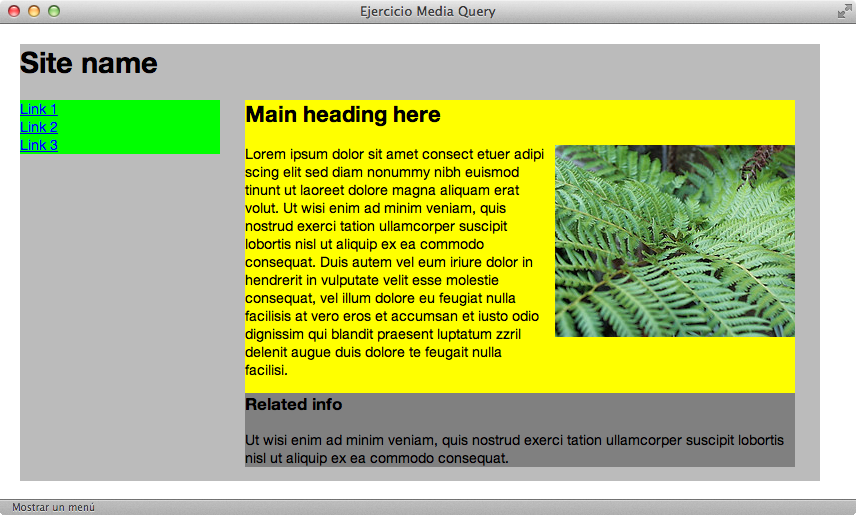
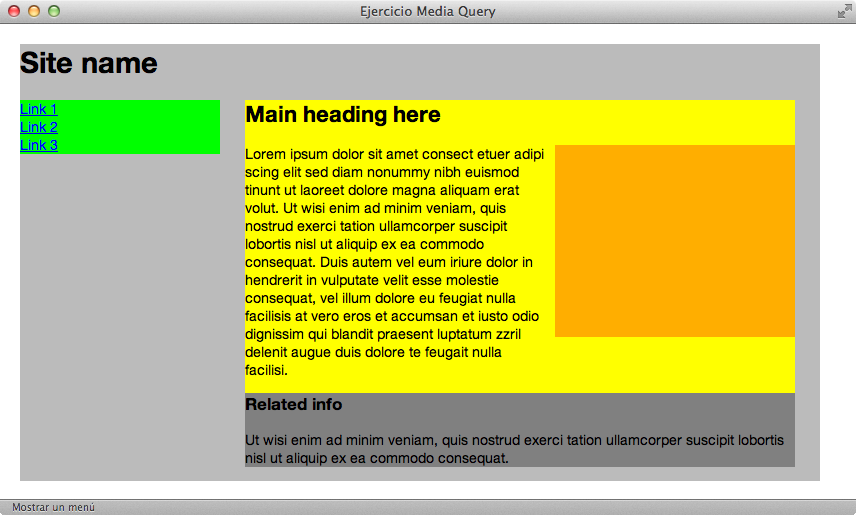
Improve Session 1.6 (#23)

Changed region(s): [[0.6379, 0.2796, 0.9416, 0.6524]]

diff --git a/sprint_1/1_6_responsive_design.md b/sprint_1/1_6_responsive_design.md
@@ -1,20 +1,19 @@
 # Responsive design
 
 ## Índice de ejercicios
-<!-- TOC START min:5 max:7 link:true update:true -->
-  - [EJERCICIO 1:](#ejercicio-1)
-  - [EJERCICIO 2:](#ejercicio-2)
-  - [EJERCICIO 3:](#ejercicio-3)
-  - [EJERCICIO 4:](#ejercicio-4)
-  - [EJERCICIO 5:](#ejercicio-5)
-  - [EJERCICIO 6:](#ejercicio-6)
-  - [EJERCICIO 7:](#ejercicio-7)
-  - [EJERCICIO BONUS 1:](#ejercicio-bonus-1)
-  - [EJERCICIO 8:](#ejercicio-8)
-  - [EJERCICIO 9:](#ejercicio-9)
-  - [EJERCICIO 10:](#ejercicio-10)
+<!-- TOC depthFrom:4 depthTo:6 updateOnSave:true withLinks:true -->
 
-<!-- TOC END -->
+- [EJERCICIO 1](#ejercicio-1)
+- [EJERCICIO 2](#ejercicio-2)
+- [EJERCICIO 3](#ejercicio-3)
+- [EJERCICIO 4](#ejercicio-4)
+- [EJERCICIO 5](#ejercicio-5)
+- [EJERCICIO 6](#ejercicio-6)
+- [EJERCICIO BONUS 1](#ejercicio-bonus-1)
+- [EJERCICIO 7](#ejercicio-7)
+- [EJERCICIO 8](#ejercicio-8)
+
+<!-- /TOC -->
 
 ## Introducción
 
@@ -34,17 +33,17 @@ Con el paso del tiempo, hemos visto que el problema ya no se resuelve teniendo a
 ## ¿Qué es responsive?
 El responsive, o Responsive Web Design (RWD) es un concepto de desarrollo orientado a que los sitios web se vean y comporten correctamente en todos los dispositivos y pantallas.
 
-	NOTA:
-	Responsive no es solo móvil, tablet y escritorio, también es un navegador que ocupe la mitad de la pantalla por alguna razón (por ejemplo: estamos escribiendo un artículo en nuestro editor de textos y tenemos al lado una web donde consultamos información).
+> **NOTA**:
+Responsive no es solo móvil, tablet y escritorio, también es un navegador que ocupe la mitad de la pantalla por alguna razón. Por ejemplo, estamos escribiendo un artículo en nuestro editor de textos y tenemos al lado una web donde consultamos información.
 
 Esto se consigue combinando varios enfoques:
 - Maquetaremos ciertas zonas usando porcentajes
 - Ciertos elementos se ajustarán al tamaño del contenedor hasta un cierto valor, es decir, se comportan como si tuviesen las medidas por porcentajes pero pudiendo marcar tamaños máximos y mínimos
-- Usaremos unidades "flexibles" en ciertos casos, como `em` o `vw` y `vh`. Y claro, el `%`
+- Usaremos unidades "flexibles" en ciertos casos, como `rem` o `vw` y `vh`. Y claro, el `%`
 - Tenemos a nuestra disposición unas expresiones CSS, las mediaqueries, que nos permiten aplicar una serie de reglas cuando en nuestro navegador se cumplen unas condiciones: ancho, alto, resolución, orientación...
 - Veremos qué es el viewport y cómo usarlo
 
-[Curso de Responsive Design](https://www.youtube.com/playlist?list=PLQCgNGUqLK4mW7LxW3jJdRjCnErL5rszl)
+[Curso en video de Responsive Design](https://www.youtube.com/playlist?list=PLQCgNGUqLK4mW7LxW3jJdRjCnErL5rszl)
 
 ## Imágenes, media y tipografía flexibles
 ### Imágenes
@@ -55,11 +54,13 @@ En este entorno Responsive las imágenes y videos tienen su forma de afrontarse 
 * max-height
 * min-height
 
-De esta manera no solo podemos definirle un ancho/alto en porcentages sino marcar unos límites.
+De esta manera no solo podemos definir un ancho/alto en porcentajes sino marcar unos límites.
 
-Por ejemplo: Quiero que mi imagen se ajuste al 100% del contenedor pero solo hasta un máximo de 900px, controlando de esa manera que se haga demasiado grande.
+Por ejemplo: Quiero que mi imagen se ajuste al 100% del contenedor pero solo hasta un máximo de 600px, controlando de esa manera que se haga demasiado grande.
 
-[Ejemplo de imagen "responsive" en Codepen](https://codepen.io/oneeyedman/pen/XzKdBe)
+En maquetación responsive es súper buena idea meter las imágenes de contenido en un contenedor, dar a la imagen un ancho del 100% y usar el contenedor para definir el tamaño que debe tener la imagen. Esto se hace para poder controlar diferentes imágenes cuando no podemos asegurar los tamaños que van a tener sin que nos interfiera con la estructura.
+
+[&rtrif; Ejemplo de imagen "responsive" en Codepen](https://codepen.io/adalab/pen/XxVGQB)
 
 ### Vídeos
 Los vídeos son más complicados de controlar porque la etiqueta `<video>`, al contrario que la `<img>` no redimensiona proporcionalmente el video, aunque hay formas de suplirlo ya sea por CSS o tirando de unas librerías en JS.
@@ -67,55 +68,90 @@ Los vídeos son más complicados de controlar porque la etiqueta `<video>`, al c
 ### Tipografía
 Para el tema de la tipografía hay varias escuelas y formas de afrontarlo según el caso:
 
-* Una es usar unidades fijas como los pixels, e indicarle en cada caso qué tamaño de fuente debe tener cada texto. Por ejemplo: en móvil mi texto básico será de 18px porque la pantalla es más pequeña y quiero que se lea mejor, pero en tablet lo bajo a 16px y en escritorio lo vuelvo a poner a 18px. Aunque en pantallas muy grandes usaré 20px o 24px.
-* Tenemos unas unidades relativas como los `em`
+* Una es usar unidades fijas como los píxels, e indicarle en cada caso qué tamaño de fuente debe tener cada texto. Por ejemplo: en móvil mi texto básico será de 18px porque la pantalla es más pequeña y quiero que se lea mejor, pero en tablet lo bajo a 16px y en escritorio lo vuelvo a poner a 18px. Aunque en pantallas muy grandes usaré 20px o 24px.
+* Tenemos unas unidades relativas como los `rem`
 
-`em`: 1em es el tamaño de fuente del elemento actual (es el ancho de la letra M mayúscula). El tamaño de fuente por defecto que los navegadores usan antes de aplicar CSS es de 16 píxeles, lo que significa que este es el valor asignado por defecto a un elemento (1em). Ojo — los tamaños de fuente de los elementos se heredan de los padres, por lo que si a los padres se les aplica otros tamaños de fuente, la equivalencia en píxel de un em puede complicarse.
+`rem`: es una unidad relativa al tamaño de texto especificado en el elemento raíz de nuestro documento que es el `<html>`. De manera que si el elemento `html` está a 16px (valor por defecto) 1rem equivaldrá a esos 16px.
 
-![Cómo funcionan los em](assets/images/1-6/em.png)
+Esto nos ayuda a poder ajustar todas nuestras medidas de forma proporcional solo cambiando el tamaño de fuente de la etiqueta `<html>`.
+
+[&rtrif; Veamos un ejemplo en Codepen](https://codepen.io/adalab/pen/WadWay) (Prueba a cambiar el tamaño de fuente de la etiqueta html).
+
+**¡En el nombre de la diosa frontender! ¿Cómo vamos a calcular los rems que corresponden a nuestros píxels?**
+
+Pues con una [calculadora de rem](https://offroadcode.com/rem-calculator/) (por ahora).
+
 * * *
-###### EJERCICIO 1:
+###### EJERCICIO 1
 
-En la web de [Calculadora de em](https://vasilis.nl/nerd/code/emcalc/) crear una estructura como:
+**No puedo vivir sin rems**
+
+Partiendo de estos documentos:
+
+**index.html**
+
 ```html
+<!DOCTYPE html>
+<html lang="en">
+<head>
+  <meta charset="UTF-8">
+  <meta name="viewport" content="width=device-width, initial-scale=1.0">
+  <link rel="stylesheet" href="styles/main.css">
+  <title>:)</title>
+</head>
 <body>
-	<main>
-		<section>
-			<p></p>
-		</section>
-	</main>
+  <div class="smiley">:)</div>
 </body>
+</html>
 ```
-donde el `<body>` estará a 16px, el `<main>` a los mismos 16px, el `<section>` a 20px y el `<p>` a 20px.
-* ¿A cuántos px equivale 1em en el `<body>`?
-* ¿A cuántos em está el `<section>`?
-* ¿A cuántos em está el `<p>`?
+
+y
+
+**main.css**
+
+```CSS
+html {
+  font-size: 16px;
+}
+.smiley {
+  width: 100px;
+  height: 100px;
+  line-height: 100px;
+  text-align: center;
+  font-family: 'courier new';
+  font-weight: bold;
+  font-size: 50px;
+  color: #424242;
+  background: #ffcc00;
+  position: fixed;
+  left: 50%;
+  top: 50%;
+  transform: translate(-50%, -50%);
+  border-radius: 50%;
+}
+
+```
+
+1. Pasar las medidas en píxels a rem
+2. ¿Qué tamaño de fuente tengo que poner para que mi careto mida 50x50?
+3. ¿Y para que mida 200x200?
+
 * * *
-###### EJERCICIO 2:
 
-Vamos a ver cómo funcionan en un ejemplo unas unidades flexibles como los `em` y qué pueden hacer por nosotros:
-En el siguiente [codepen](https://codepen.io/adalab/pen/vWXwZd) hay un contenedor con clase `.icon`. Y él y todas sus hijas están en `em`.
-Probar a diferentes valores de pixels para el font-size del elemento `.icon`:
 
-* 10px
-* 16px
-* 50px
-* 100px
-* * *
-
-## Max-width, min-width, max-height, min-height. Width: 100%.
+## Max-width, min-width, max-height, min-height.
 Estas propiedades que permiten "limitar" anchos y altos se pueden aplicar a casi cualquier contenedor (que admita dimensiones, como aquellos con display block o inline-block) de manera que podamos tener elementos que se dimensionen a base de porcentajes pero sobre los que tengamos un poco de control para que en determinados escenarios no se hagan demasiado pequeños ni demasiado grandes.
 
 * * *
-###### EJERCICIO 3:
+###### EJERCICIO 2
 
-Ya que ayer vimos flexbox, en este [codepen](https://codepen.io/adalab/pen/LORKzX) tenemos dos columnas, una (.aside) que ocupa el 50% del ancho hasta 320px y la otra (.main) que ocupa el resto:
+Ya vimos en la sesión de flexbox, en este [codepen](https://codepen.io/adalab/pen/LORKzX) tenemos dos columnas, una (`aside`) que ocupa el 50% del ancho hasta 320px y la otra (`.main`) que ocupa el resto:
 
-* Tirando con el ratón, redimensionar la ventana del navegador haciendola tan pequeña como para que las dos columnas ocupen lo mismo
-* y agrandar hasta que .aside se quede en 320px de ancho mientras .main ocupa el resto del espacio
+* Tirando con el ratón, redimensionar la ventana del navegador haciéndola tan pequeña como para que las dos columnas ocupen lo mismo
+* y agrandar hasta que `.aside` se quede en 320px de ancho mientras `.main` ocupa el resto del espacio
 
 * * *
-###### EJERCICIO 4:
+###### EJERCICIO 3
 
 En el siguiente [codepen](https://codepen.io/adalab/pen/MOjMPr) hay un módulo con una noticia sobre Bill Murray. Nada nuevo, ¿no?
 
@@ -123,18 +159,19 @@ En el siguiente [codepen](https://codepen.io/adalab/pen/MOjMPr) hay un módulo c
 * ¿Y si duplico otra vez?
 * * *
 
-## Mediaqueries. Viewport: &lt;meta name="viewport"&gt;.
+## Mediaqueries
 Las mediaqueries son las instrucciones que nos permiten aplicar una serie de reglas CSS cuando se cumplan una o varias condiciones. Tienen este aspecto:
 ```css
 @media all and (min-width:500px) {
 	/* Reglas CSS que aplicaremos */
 }
 ```
-En el ejemplo superior le decimos que aplique unos CSS cuando estemos en una ventana de navegador de al menos 500px
-* * *
-###### EJERCICIO 5:
+En el ejemplo superior le decimos que aplique unos CSS cuando estemos en una ventana de navegador de al menos 500px.
 
-Crea un index.html que contenga:
+* * *
+###### EJERCICIO 4
+
+Crea un `index.html` que contenga:
 ```html
 <!DOCTYPE html>
 <html lang="en">
@@ -156,7 +193,7 @@ Crea un index.html que contenga:
 ```
 Veremos que el div `.box` ocupará el ancho disponible y tendrá 100px de alto, y fondo rojo.
 
-2) Vamos a añadir nuestra primera mediaquery: vamos a hacer que por encima de 550px el elemento `.box` tenga fondo azul. Para ello el CSS dentro de nuestra etiqueta `<style>` quedará así:
+2) Añadamos nuestra primera mediaquery: vamos a hacer que por encima de 550px el elemento `.box` tenga fondo azul. Para ello el CSS dentro de nuestra etiqueta `<style>` quedará así:
 ```css
 .box {
 	background: red;
@@ -170,13 +207,15 @@ Veremos que el div `.box` ocupará el ancho disponible y tendrá 100px de alto, 
 ```
 Si ahora redimensionamos la ventana del navegador veremos que a partir de 550px de ancho nuestro elemento `.box` se vuelve azul.
 
-	NOTA:
-	A cada una de estas medidas que ponemos en los mediaqueries las llamamos breakpoints, o puntos de ruptura.
+>**NOTA**:
+A cada una de estas medidas que ponemos en los mediaqueries las llamamos breakpoints, o puntos de ruptura.
 
 3) Abramos ahora las herramientas de desarrollo de Chrome y lancemos el simulador de dispositivos móviles. Probemos varios dispositivos o resoluciones. ¿Qué pasa? ¿Cuándo se vuelve azul? ¿Cuándo se vuelve rojo?
-Si no lo tenemos claro el siguiente ejercicio nos va a ayudar a entenderlo mejor.
+
+Si no lo tenemos claro los siguientes ejercicios nos va a ayudar a entenderlo mejor.
 * * *
 
+## Viewport
 Aquí es donde entra en juego una etiqueta que la conocíamos por otros motivos pero que ahora tiene un contenido especial: el viewport.
 ```html
 <meta name="viewport" content="width=device-width, initial-scale=1">
@@ -188,7 +227,7 @@ Con la etiqueta `meta` viewport le decimos a estos dispositivos cómo tienen que
 2) la escala inicial siempre será el 100%
 
 * * *
-###### EJERCICIO 6:
+###### EJERCICIO 5
 
 Vamos a añadir al `<head>` de nuestra página el tag meta viewport quedando toda nuestra página así:
 ```html
@@ -217,9 +256,9 @@ Vamos a añadir al `<head>` de nuestra página el tag meta viewport quedando tod
 ```
 ¿Qué tal ahora? ¿Si nos vamos a las herramientas de desarrollo, abrimos el simulador y probamos con diferentes dispositivos/anchos? ¿Cambia ahora de rojo a azul?
 * * *
-###### EJERCICIO 7:
+###### EJERCICIO 6
 
-Vamos a hacer algo más "real". En un html tendremos un contenedor con:
+Vamos a hacer algo más "real". En un HTML tendremos un contenedor con:
 1. Un título
 2. Uno o dos párrafos de texto
 
@@ -249,15 +288,14 @@ Hay varias formas de afrontar la maquetación de un proyecto responsive, la que 
 
 La maquetación mobile first da prioridad a los dispositivos con menos capacidad de pantalla, conexión y batería de manera que, por ejemplo, se cargan imágenes más pequeñas que consumen muchos menos datos o se muestra una maquetación más simple y adaptada a que usemos los dedos como punteros (botones y zonas clicables más grandes). Y si luego resulta que estamos viendo la página en un una pantalla más grande, gracias a las mediaqueries, podemos cargar elementos más pesados, mostrar otros que en móvil pueden no tener sentido y adaptarlo todo a que ya se va a manejar con ratón y/o teclado.
 
-Un ejemplo sería la típica página que tiene una primera sección con una imagen de fondo enorme: con la maquetación mobile first colocaríamos primero un fondo adaptado a una pantalla más pequeña con el consiguiente ahorro en nuestra tarifa de datos. Si alguien la carga desde escritorio, donde suele tener una conexión con tarifa plana, pasaríamos a mostrar una imagen de fondo mucho más grande, acorde a la pantalla que esté usando. Pero nunca obligamos a quien va en el metro a descargarse una imagen descomunal de chopocientos megapixels en su móvil con una tarifa de datos que se paga con sangre.
+Un ejemplo sería la típica página que tiene una primera sección con una imagen de fondo enorme: con la maquetación mobile first colocaríamos primero un fondo adaptado a una pantalla más pequeña con el consiguiente ahorro en nuestra tarifa de datos. Si alguien la carga desde escritorio, donde suele tener una conexión con tarifa plana, pasaríamos a mostrar una imagen de fondo mucho más grande, acorde a la pantalla que esté usando. Pero nunca obligamos a quien va en el metro a descargarse una imagen descomunal de chopocientos megapíxels en su móvil con una tarifa de datos que se paga con sangre.
 
 En el CSS esto se representa escribiendo primero los CSS que se verán en las pantallas/ventanas de navegador más pequeñas. Posteriormente añadiremos, dentro de mediaqueries, los ajustes necesarios para los tamaños mayores de pantalla o ventana.
 
-	NOTA:
-	Recordemos que responsive no es solo tema de dispositivos. Claro que hay móviles de 320, tablets de 768 y pantallas desde 1336 a 2560 de ancho. Pero responsive también es un tipo en una pantalla más modesta, por ejemplo cuando una usuaria pone el navegador en la mitad de la pantalla mientras trabaja y en la otra mitad pone un reproductor de vídeo porque está enganchada a Juego de Tronos...
+>**NOTA**:
+Recordemos que responsive no es solo tema de dispositivos. Claro que hay móviles de 320, tablets de 768 y pantallas desde 1336 a 2560 de ancho. Pero responsive también es un tipo en una pantalla más modesta, por ejemplo cuando una usuaria pone el navegador en la mitad de la pantalla mientras trabaja y en la otra mitad pone un reproductor de vídeo porque está enganchada a Juego de Tronos...
 
 ### Entonces, ¿cuántos breakpoints hay? ¿hay unos más estándar que otros?
-Pues sí y no. Pero sí.
 Realmente hay una serie de anchos que se tienen más en cuenta que otros. por ejemplo, un tablet suele tener de 768px (en vertical) a 1024px (en horizontal). En ordenadores de escritorio hay una serie de anchos que se suelen repetirse en los diseños (1280, 1500, 1600)...
 
 Todo esto es muy relativo pero cuando el equipo de diseño entrega un diseño suele hacer de 2 a 3/4 vistas, y tomaremos esas medidas como nuestros breakpoints principales. El objetivo es clavar el diseño en esos puntos.
@@ -267,11 +305,12 @@ Luego tendremos breakpoints menores que nos los da el contenido: desde el tamañ
 De esta manera nos aseguramos de que en cualquier ventana de navegador nuestra página se va a ver correcta. Quizás no se vea de una manera ideal, pero no se va a ver descolocada.
 
 ## BONUS: vw y vh
-De postre, tenemos unas unidades flexibles que no dependen de un tamaño de fuente como los `em` sino que dependen de las dimensiones del viewport o de la ventana del navegador. Son los `vw` y `vh` (viewport width y viewport height).
+De postre, tenemos unas unidades flexibles que no dependen de un tamaño de fuente como los `rem` sino que dependen de las dimensiones del viewport o de la ventana del navegador. Son los `vw` y `vh` (viewport width y viewport height).
 
-A efectos prácticos actuan como un porcentaje en función del ancho/alto del viewport/ventana del navegador. Entonces, el 100% de la altura de nuestra ventana de navegador sería 100vh.
+A efectos prácticos actúan como un porcentaje en función del ancho/alto del viewport/ventana del navegador. Entonces, el 100% de la altura de nuestra ventana de navegador sería 100vh.
 * * *
-###### EJERCICIO BONUS 1:
+
+###### EJERCICIO BONUS 1
 
 En el siguiente [codepen](https://codepen.io/adalab/pen/BmQaQa) variad las dimensiones en vw y vh para:
 * hacer que el contenedor `.box` ocupe el 50% de ancho y el 100% de alto
@@ -279,7 +318,7 @@ En el siguiente [codepen](https://codepen.io/adalab/pen/BmQaQa) variad las dimen
 * hacer que el contenedor `.box` ocupe el 100% de ancho y el 80% de alto
 
 * * *
-###### EJERCICIO 8:  
+###### EJERCICIO 7
 
 Hacer una web que, en función del ancho de la ventana del navegador, cambie su color de fondo:
 - Si el tamaño de la ventana es menor de 480px que tenga el fondo rojo
@@ -287,7 +326,7 @@ Hacer una web que, en función del ancho de la ventana del navegador, cambie su 
 - Si el tamaño de la ventana es mayor de 768px que tenga el fondo verde
 
 * * *
-###### EJERCICIO 9:
+###### EJERCICIO 8
 
 Dados los siguientes diseños, maquetar la web aplicando las mediaqueries necesarias.
 
@@ -304,16 +343,30 @@ Aspecto de la web a pantalla completa (por encima de 1000px)
 ![Pantalla completa](assets/images/1-6/ejercicio-9-3.png)
 
 * * *
-###### EJERCICIO 10:
-
-`em` es una unidad que depende del tamaño de fuente de su contenedor, ya sea porque se especifica o porque se hereda de otro.
-Suponiendo [este ejemplo](https://codepen.io/adalab/pen/MOEWmP) donde ya está ajustada la cabecera, el footer, y la proporción que queremos de título y texto en el post, hay que hacer los ajustes necesarios solo en `.main` para que nuestro post se adecúe a mobile, tablet, desktop y desktop full.
-
-Para ello hemos preparado una "pista" para la versión mobile en la línea 97 del CSS. Quedaría ajustar el tamaño de la fuente de `.main` para las sucesivas resoluciones (ya hay preparadas unas mediaqueries donde poner los tamaños de letra).
-* * *
 
 ## Recursos externos
 - [Curso de Responsive Design](https://www.youtube.com/playlist?list=PLQCgNGUqLK4mW7LxW3jJdRjCnErL5rszl)
 - [CSS: Media queries (video)](https://www.youtube.com/watch?v=y6zYUe7MdLQ)
 - [Por qué mobile first es importante hoy](https://www.youtube.com/watch?v=SEXm5OM-U3s)
 - [Cómo aplicar el mobile first y el responsive design](https://www.youtube.com/watch?v=KjHRa_Qzus8&index=8&list=PL6hPvfzEEMDaKYAabXoDL7A-fZcwxvIqe)
+
+
+## Bonus: em
+
+`em`: 1em es una unidad relativa que depende del tamaño de texto de nuestra madre: Si el body está a 14px y a una hija inmediata, un `<div>`, le especificamos un tamaño de fuente de 1em, ese 1em valdrá 14 píxeles.
+
+El tamaño de fuente por defecto que los navegadores usan antes de aplicar CSS es de 16 píxeles, lo que significa que este es el valor asignado por defecto a un elemento (1em). Ojo — los tamaños de fuente de los elementos se heredan de las madres, por lo que si a las madres se les aplica otros tamaños de fuente, la equivalencia en píxel de un em puede complicarse.
+
+![Cómo funcionan los em](assets/images/1-6/em.png)
+
+Los `em` son estupendos para modificar un módulo de manera proporcional.
+Vamos a ver cómo funcionan en un ejemplo unas unidades flexibles como los `em` y qué pueden hacer por nosotros:
+En el siguiente [codepen](https://codepen.io/adalab/pen/vWXwZd) hay un contenedor con clase `.icon`. Y él y todas sus hijas están en `em`.
+Probar a diferentes valores de píxels para el font-size del elemento `.icon`:
+
+* 10px
+* 16px
+* 50px
+* 100px
+
+* * * 
